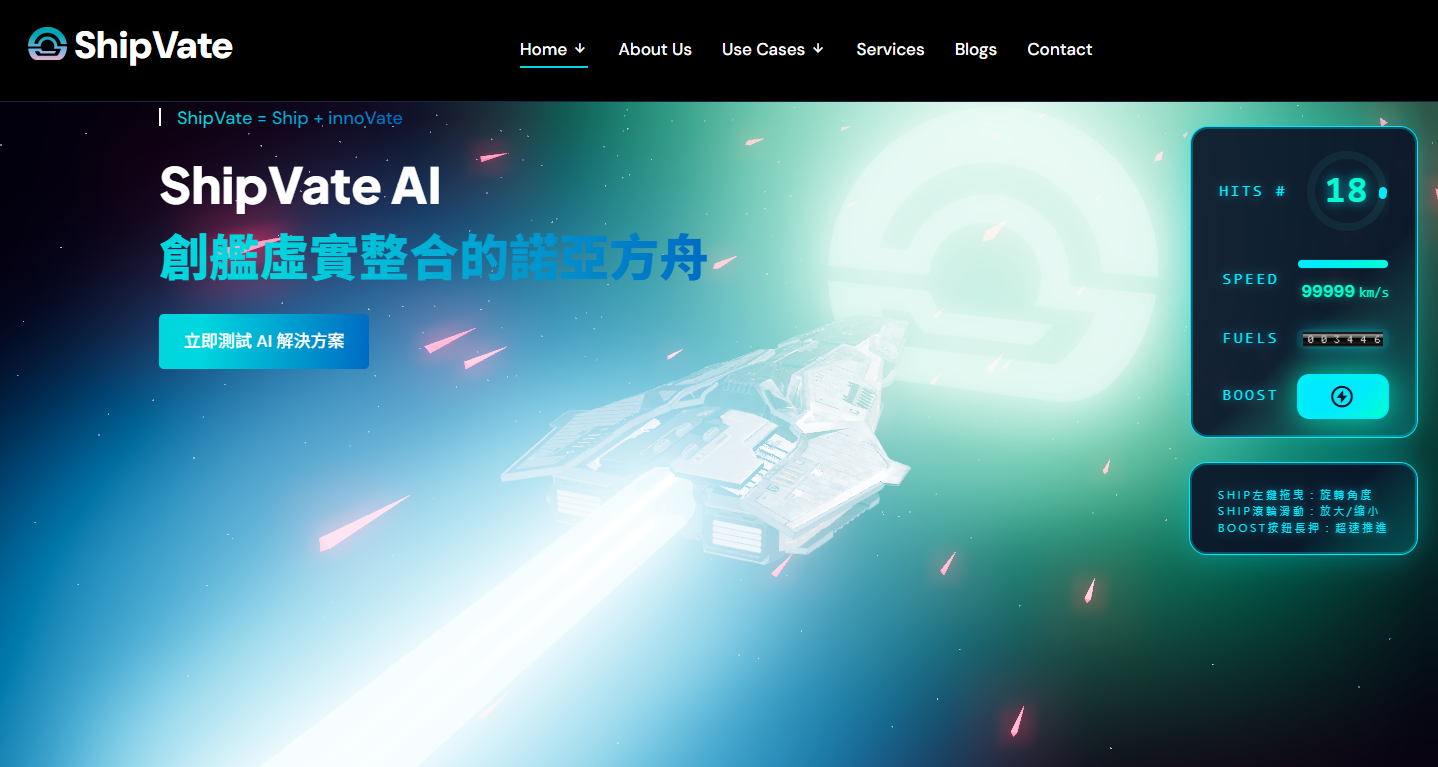
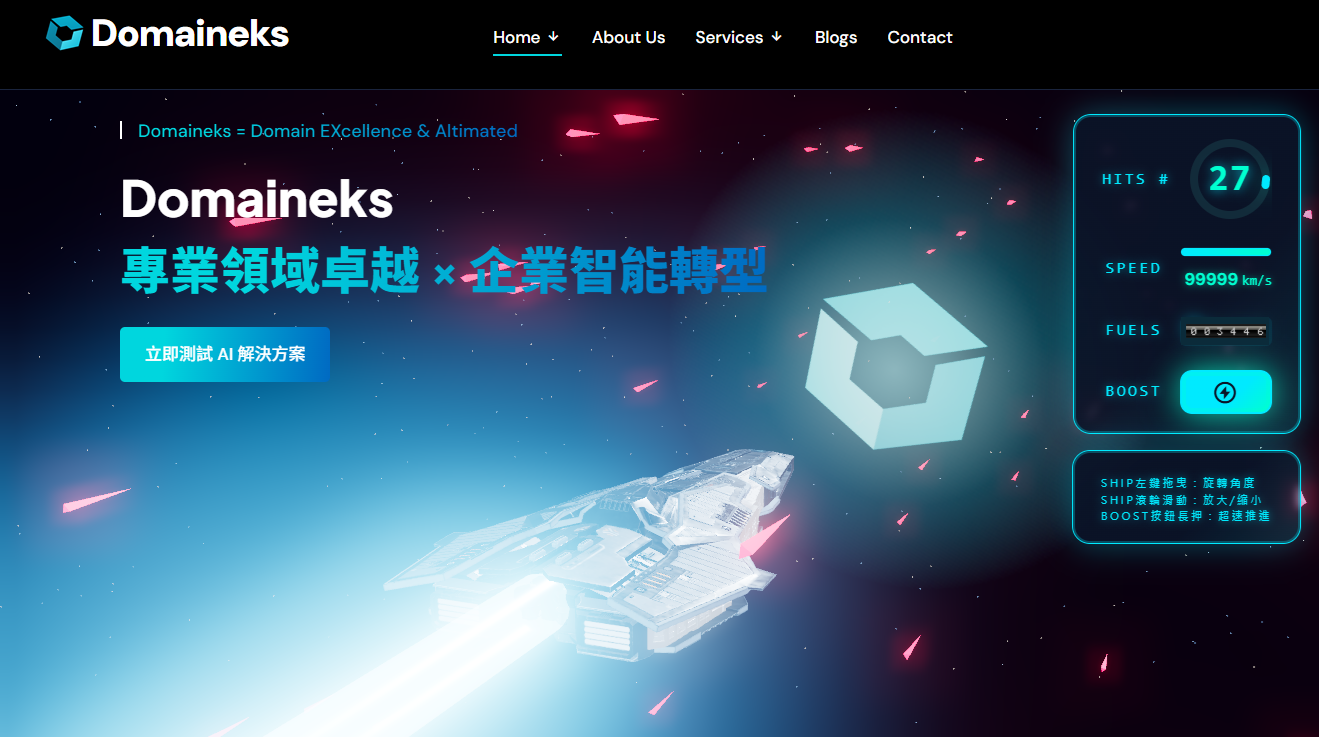
update portfolio item

diff --git a/index.html b/index.html
@@ -962,13 +962,13 @@
           <div class="portfolio-wrap">
             <img src="assets/img/portfolio/portfolio-19.png" class="img-fluid" alt="">
             <div class="portfolio-info">
-              <h4>ShipVate AI - Official Website</h4>
-              <p>ShipVate AI, Ltd.</p>
+              <h4>Domaineks - Official Website</h4>
+              <p>Domaineks Co., Ltd.</p>
               <div class="portfolio-links">
                 <a href="assets/img/portfolio/portfolio-19-details.png" data-gallery="portfolioGallery" class="portfolio-lightbox" title="">
                   <i class="bx bx-plus"></i>
                 </a>
-                <a href="https://shipvate.com/" target="_blank" title="Portfolio Details"><i class="bx bx-link"></i></a>
+                <a href="https://domaineks.com/" target="_blank" title="Portfolio Details"><i class="bx bx-link"></i></a>
               </div>
             </div>
           </div>
